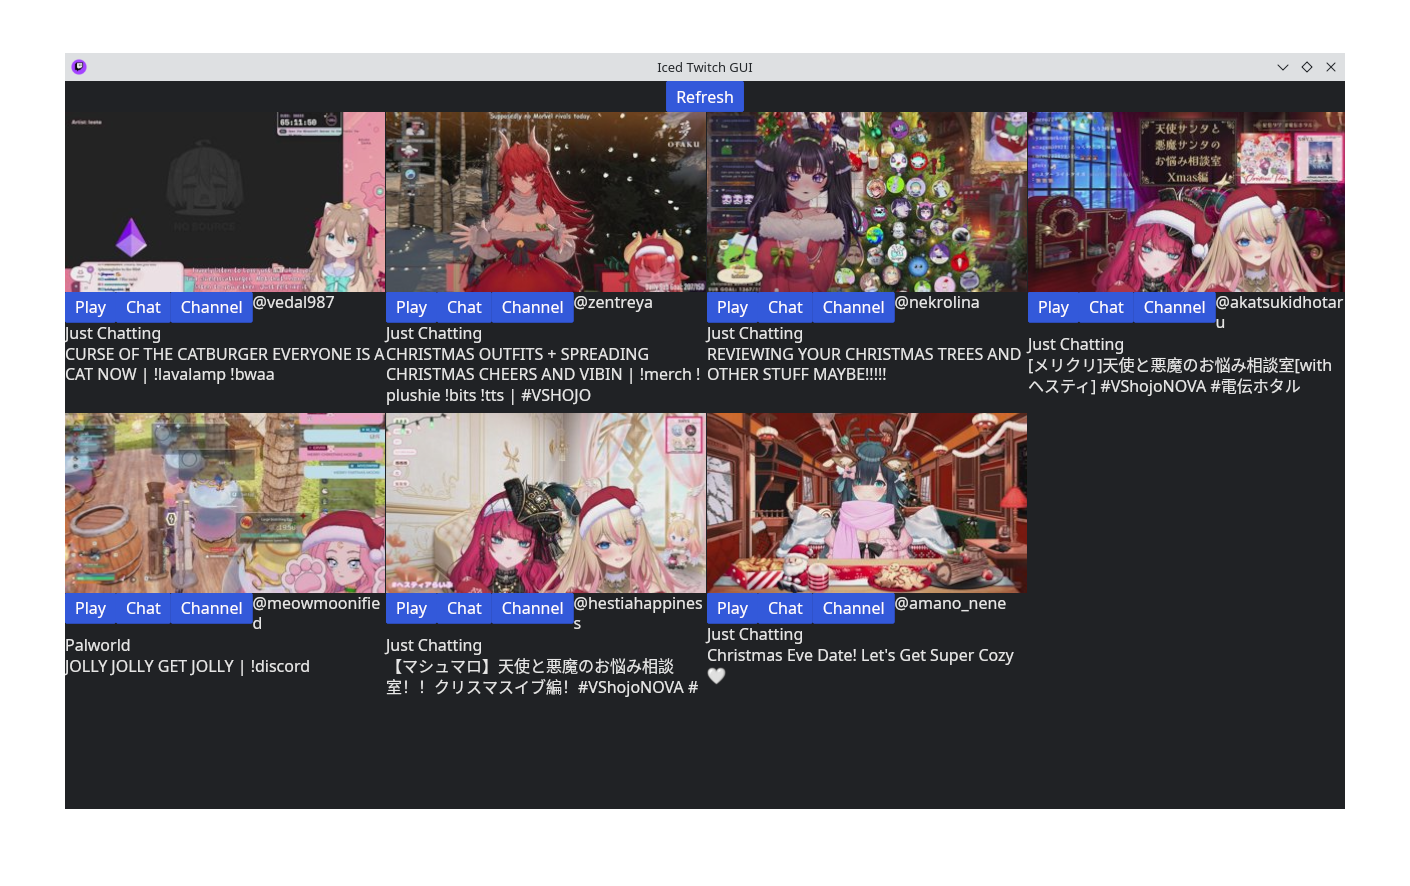
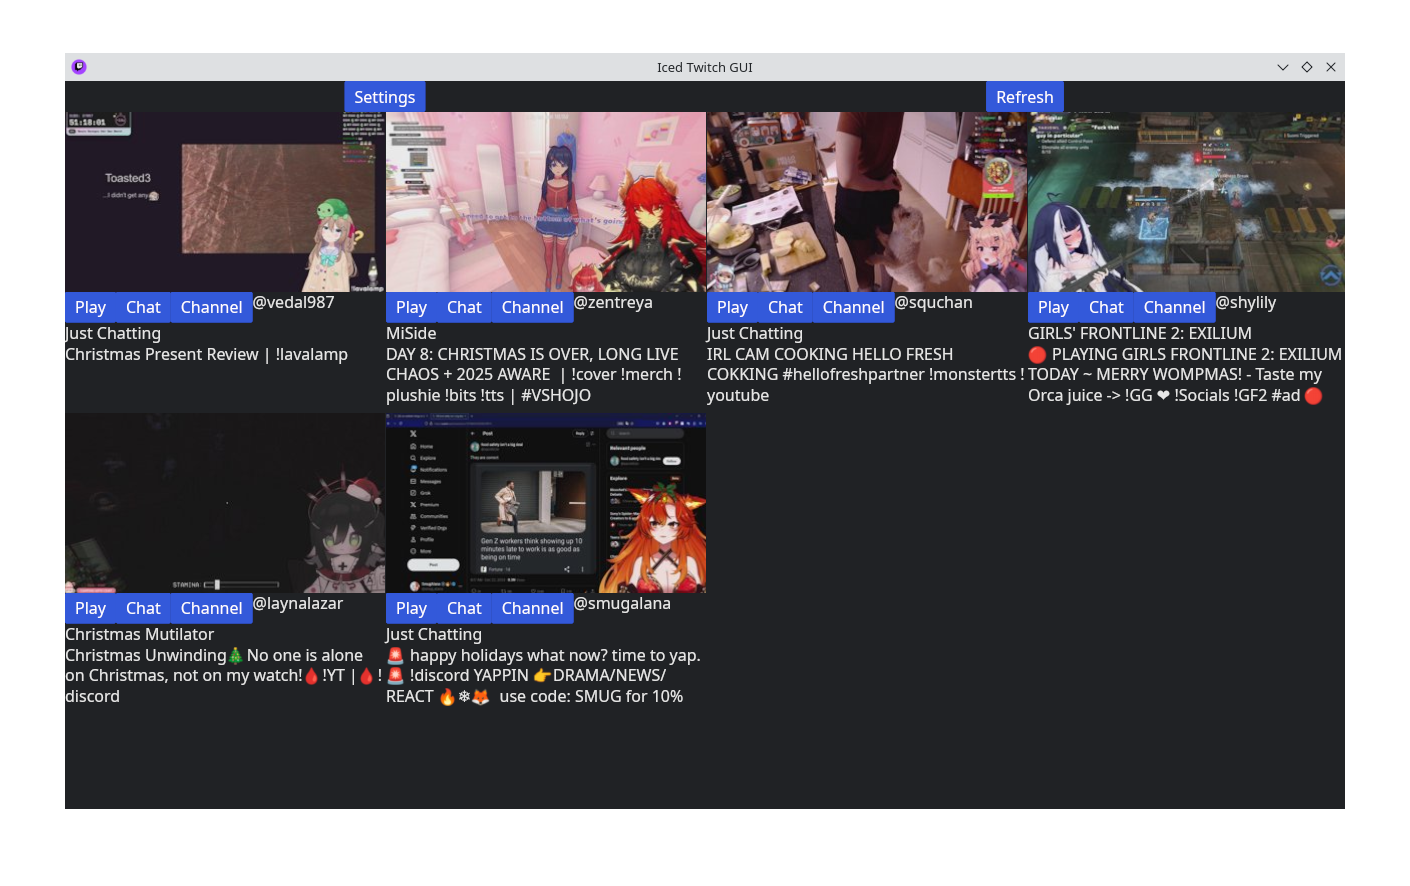
Updating readme,  adding options for programs to stream and playback livestreams.

diff --git a/README.md b/README.md
@@ -1,7 +1,10 @@
 Twitch GUI using iced and written in rust.  Shows currently live streams from twitch creators you follow.
 
-Requires twitch-hls-client to be already set up (for now)
+Works wity any program to do the actual streaming.  Defaults to assuming an already set up twitch-hls-client.
 
 Icon found on vecteezy.com
 
+[Instructions on how to get the oauth token if wanted](https://streamlink.github.io/cli/plugins/twitch.html#authentication)
+
 ![Screenshot](https://github.com/sonicrules1234/iced-twitch-gui/blob/master/screenshot.png?raw=true)
+![Settings Screenshot](https://github.com/sonicrules1234/iced-twitch-gui/blob/master/screenshot_settings.png?raw=true)
